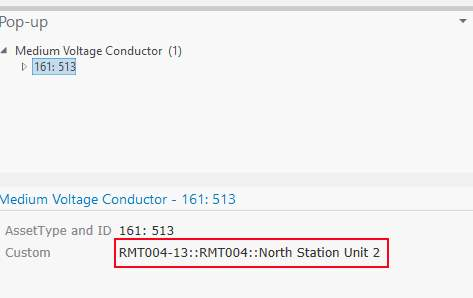
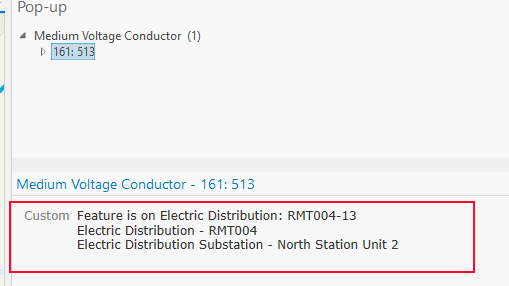
new image revised logic and moved to functions

Changed region(s): [[0.0, 0.6154, 1.0, 1.0], [0.0, 0.0, 1.0, 0.5874]]

diff --git a/popup/utility-network-parent-subnetworks.md b/popup/utility-network-parent-subnetworks.md
@@ -17,6 +17,23 @@ Create an expression to identify parent networks
 
 
 ```js
+function init_feature_sets() {
+    //  Create links to the required layers
+    // The subnetwork table is always 500002, alt you could use Subnetworks
+    subnetwork_table = FeatureSetByName($datastore, '500002', ['subnetworkname', 'globalid',
+        'featureglobalid', 'isdirty', 'tierrank', 'tiername'], false);
+    if (IsEmpty(subnetwork_table) == true) {
+        return "Subnetwork table not found"
+    }
+    // The device class is the only class that can be controllers, use its map name or layer ID
+    // In the example the ElectricDevice is layer ID 100
+    device_table = FeatureSetByName($datastore, '100', ['subnetworkname', 'globalid'], false);
+    if (IsEmpty(device_table) == true) {
+        return "Device table not found"
+    }
+    return null;
+}
+
 function get_parents(current_subnetwork) {
     // Filter the subnetwork table to get the controllers for the subnetwork the feature is on
     var results = Filter(subnetwork_table, 'subnetworkname = @current_subnetwork AND isdirty = 0');
@@ -28,91 +45,129 @@ function get_parents(current_subnetwork) {
     for (var result in results) {
         global_ids[i++] = result.featureglobalid;
         controller_guid[Count(controller_guid)] = result.globalid;
+        subnetwork_rows[Count(subnetwork_rows)] = result;
     }
-    if (Count(global_ids) == 0){
+    if (Count(global_ids) == 0) {
         return
     }
     // Filter the device class to get the subnetwork names from the controller feature
     var devices = Filter(device_table, "globalid IN @global_ids");
     var device_subnetworks = [];
-    var i = 0;
     for (var device in devices) {
+        // Store the device into a global variable
+        controller_features[Count(controller_features)] = device;
+        // If a controller has a parent network, the networks are concatenated with ::, continue if no parent
+        if (Find('::', device.subnetworkname, 0) == -1) {
+            continue
+        }
+        // Split on the subnetwork concatenation string
         var device_sub = Split(device.subnetworkname, '::');
         for (var j in device_sub) {
+            // Only store the network if it is a parent, do not store the network that the controller is controlling
             if (device_sub[j] != current_subnetwork) {
-                device_subnetworks[i++] = device_sub[j];
+                device_subnetworks[Count(device_subnetworks)] = device_sub[j];
             }
         }
     }
+    // If not parent networks are found, exit function
+    if (Count(device_subnetworks) == 0) {
+        return;
+    }
     // Get a unique set of subnetworks
     device_subnetworks = Distinct(device_subnetworks);
-    // Exit if there are no parent networks
-    if (Count(device_subnetworks) == 0) {
-        return
-    }
     // Loop through all parents, and store into global variable
     // using recursion, call get parents for each parent
     for (var parent_sub_idx in device_subnetworks) {
-        var sub_net = device_subnetworks[parent_sub_idx];
-        get_parents(sub_net)
+        get_parents(device_subnetworks[parent_sub_idx]);
     }
-    return
+    return;
 }
 
-//  Create links to the required layers
-// The subnetwork table is always 500002, alt you could use Subnetworks
-var subnetwork_table = FeatureSetByName($datastore, '500002', ['subnetworkname', 'globalid',
-    'featureglobalid', 'isdirty', 'tierrank', 'tiername'], false);
-if (IsEmpty(subnetwork_table) == true)
-{
-    return "Subnetwork table not found"
-}
-// The device class is the only class that can be controllers, use its map name or layer ID
-// In the example the ElectricDevice is layer ID 100
-var device_table = FeatureSetByName($datastore, '100', ['subnetworkname', 'globalid'], false);
-if (IsEmpty(device_table) == true)
-{
-    return "Device table not found"
+function create_result() {
+    // If no controllers where found, ie, feature is not on a subnetwork, exit
+    if (Count(controller_guid) == 0) {
+        return "No Controllers Found";
+    }
+    // Dict of arrays with key as tier rank, each subnetwork controller row is store in here
+    var results_dict = {};
+    // Dict of strings with key as tier rank, each values is the subnetwork name
+    var tier_names = {};
+    // Array of the tier ranks as int
+    var tier_ranks = [];
+    // the current tier rank the feature resides on
+    var feature_tier_rank;
+    // Loop through the subnetwork rows found in get_parents
+    for (var rowidx in subnetwork_rows) {
+        // Store the row using the loop index
+        var subnetwork_row = subnetwork_rows[rowidx];
+        // Convert the tierrank to text as dict keys must be strings
+        var tier_rank = Text(subnetwork_row.tierrank);
+        // If the tier name as not been stored yet, store into list with tier_rank as key
+        if (HasKey(tier_names, tier_rank) == False) {
+            tier_names[tier_rank] = subnetwork_row.tiername;
+        }
+        // Store the current rank the feature resides on, do not store into result dict, as the current subnetwork is
+        // displayed separately
+        if (subnetwork_row.subnetworkname == $feature.subnetworkname) {
+            feature_tier_rank = tier_rank;
+            continue
+        }
+        // Store the tier rank, as a number, into array to arrange results
+        tier_ranks[Count(tier_ranks)] = subnetwork_row.tierrank;
+        // Init the dict with the tier rank as the key as an array
+        if (HasKey(results_dict, tier_rank) == False) {
+            results_dict[tier_rank] = [];
+        }
+
+        // Add to the array in the dict by tier rank the subnetwork name
+        results_dict[tier_rank][Count(results_dict[tier_rank])] = subnetwork_row.subnetworkname
+    }
+    if (Count(tier_ranks) > 1) {
+        // Get a unique list of tier ranks
+        tier_ranks = Distinct(tier_ranks);
+        // Sort the tier in descending order
+        tier_ranks = Reverse(Sort(tier_ranks));
+    }
+    // Create the result value, first with tier the feature is on
+    var result_string = "Feature is on " + tier_names[feature_tier_rank] + ": " + $feature.subnetworkname + " \n";
+    // Loop through all the ranks, highest first
+    for (var key_idx in tier_ranks) {
+        // Get the key as text
+        var tier_key = Text(tier_ranks[key_idx]);
+
+        if (IsEmpty(results_dict[tier_key])) {
+            // No other subnetworks are on the features tier
+            continue
+        }
+        if (feature_tier_rank == tier_key) {
+            // If you want to display the information about other subnetworks on the same tier as the feaures, change the
+            // line below,
+            result_string = result_string + tier_names[tier_key] + " - " + Concatenate(results_dict[tier_key], ', ') + " \n";
+        } else {
+            result_string = result_string + tier_names[tier_key] + " - " + Concatenate(results_dict[tier_key], ', ') + " \n";
+        }
+    }
+    return result_string;
 }
 
+// Init Global Variables
 var controller_guid = [];
+var controller_features = [];
+var subnetwork_rows = [];
+var subnetwork_table;
+var device_table;
+
+// Init the feature sets, if a message is returned, exist and return the message
+var init_results = init_feature_sets();
+if (IsEmpty(init_results) == false) {
+    return init_results
+}
+
 // Call Get Parents to get parent Subnetworks
 get_parents($feature.subnetworkname);
-if (Count(controller_guid) == 0)
-{
-    return "No Controllers Found";
-}
-var results_dict = {}
-var tier_names = {}
-var parent_controllers = Filter(subnetwork_table, "globalid IN @controller_guid");// ORDER BY tierrank ASC
-parent_controllers = OrderBy(parent_controllers, 'tierrank DESC')
-var tier_keys = [];
-for (var p_cont in parent_controllers) {
-    var tier_rank = Text(p_cont.tierrank);
-    tier_keys[Count(tier_keys)] = p_cont.tierrank;
-    if (HasKey(results_dict, tier_rank) == False)
-    {
-        results_dict[tier_rank] = [];
-    }
-    if (HasKey(tier_names, tier_rank) == False)
-    {
-        tier_names[tier_rank] = p_cont.tiername;
-    }
-    if (p_cont.subnetworkname == $feature.subnetworkname)
-    {
-        continue
-    }
-    results_dict[tier_rank][Count(results_dict[tier_rank])] = p_cont.subnetworkname
-}
+return create_result();
 
-tier_keys = Distinct(tier_keys);
-var result_string = "On subnetwork " + $feature.subnetworkname + " \n";
-for(var key_idx in tier_keys)
-{
-    var tier_key = Text(tier_keys[key_idx])
-    result_string = result_string +  tier_names[tier_key] + " - " + Concatenate(results_dict[tier_key], ', ') + " \n";
-}
-return result_string;
+
 ```
 
 
